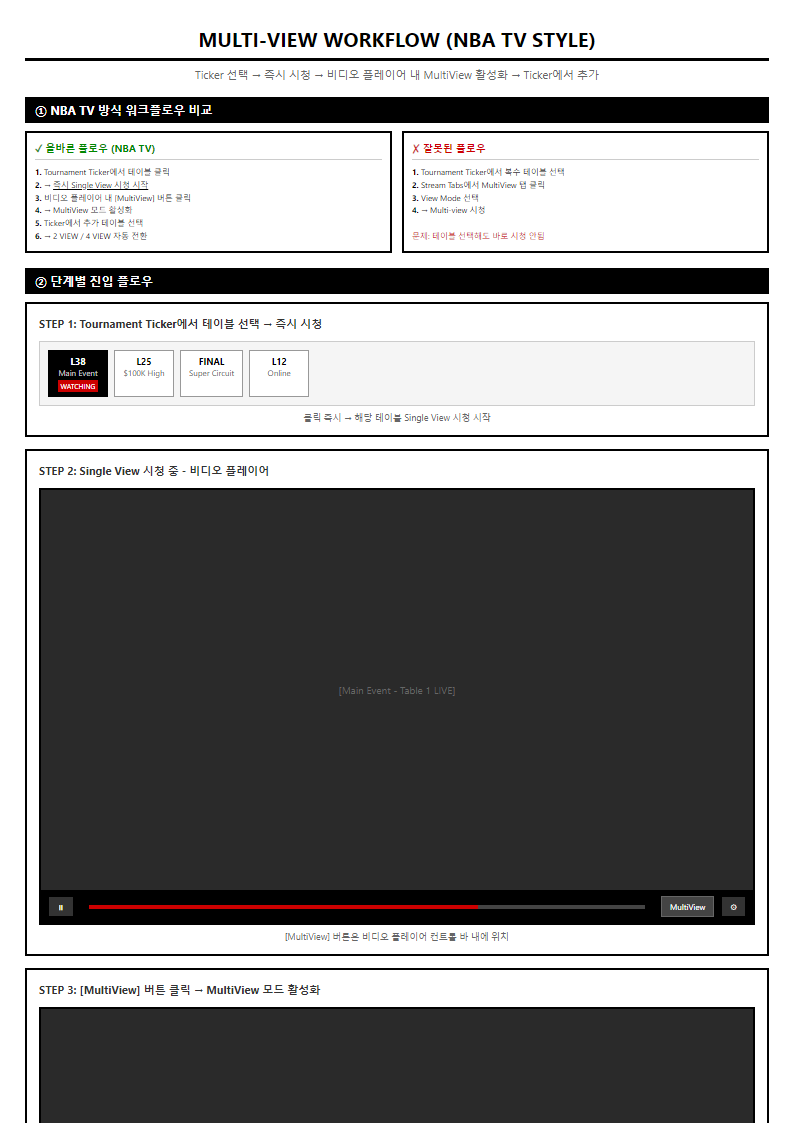
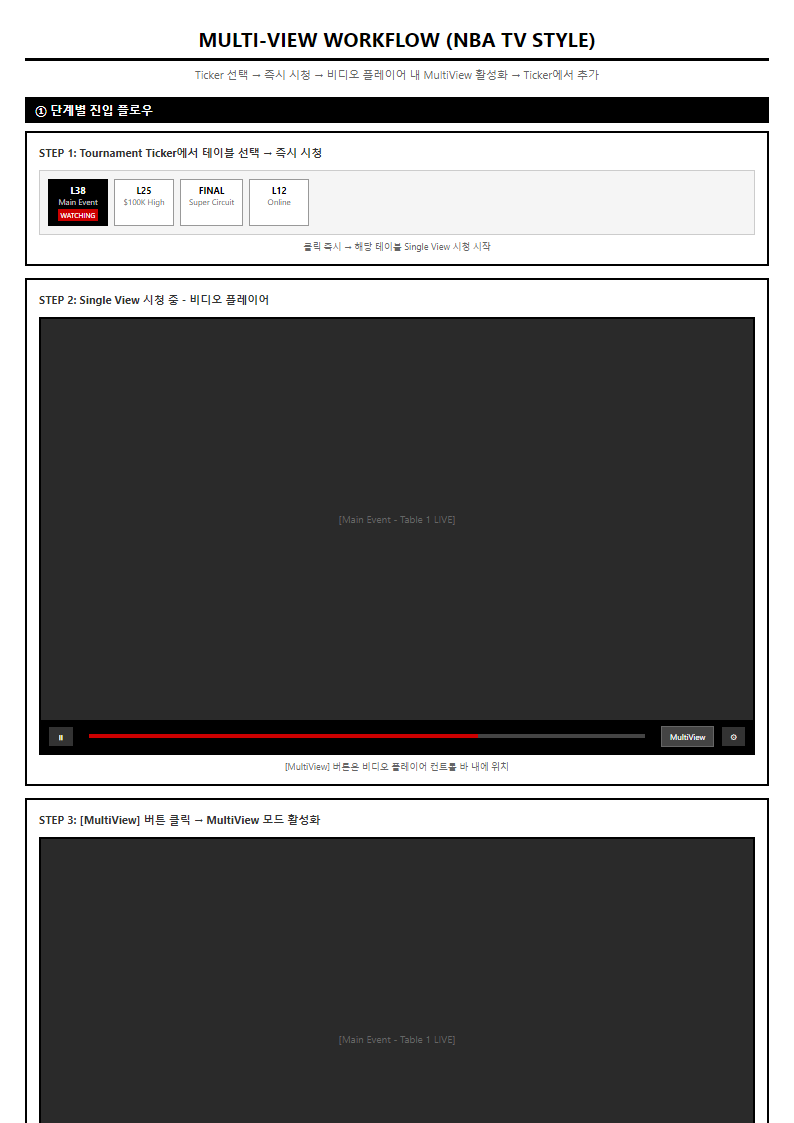
docs(mockup): Multi-view 워크플로우 비교 섹션 삭제
- "올바른 플로우 / 잘못된 플로우" 비교 섹션 제거
- 올바른 NBA TV 방식 워크플로우만 유지
- 섹션 번호 재정렬 (①②③)

diff --git a/docs/mockups/PRD-0002/04-multiview.html b/docs/mockups/PRD-0002/04-multiview.html
@@ -288,34 +288,6 @@
             text-align: center;
         }
 
-        /* Comparison */
-        .comparison {
-            display: flex;
-            gap: 10px;
-        }
-        .comp-box {
-            flex: 1;
-            border: 2px solid #000;
-            padding: 8px;
-        }
-        .comp-title {
-            font-size: 10px;
-            font-weight: bold;
-            margin-bottom: 6px;
-            padding-bottom: 4px;
-            border-bottom: 1px solid #ccc;
-        }
-        .comp-title.wrong {
-            color: #c00;
-        }
-        .comp-title.correct {
-            color: #080;
-        }
-        .comp-flow {
-            font-size: 8px;
-            line-height: 1.6;
-        }
-
         /* Notes */
         .notes {
             padding: 8px;
@@ -350,38 +322,9 @@
         <div class="title">MULTI-VIEW WORKFLOW (NBA TV STYLE)</div>
         <div class="subtitle">Ticker 선택 → 즉시 시청 → 비디오 플레이어 내 MultiView 활성화 → Ticker에서 추가</div>
 
-        <!-- Section 1: Correct vs Wrong Flow -->
+        <!-- Section 1: Step-by-Step Flow -->
         <div class="section">
-            <div class="section-title">① NBA TV 방식 워크플로우 비교</div>
-            <div class="comparison">
-                <div class="comp-box">
-                    <div class="comp-title correct">✓ 올바른 플로우 (NBA TV)</div>
-                    <div class="comp-flow">
-                        <strong>1.</strong> Tournament Ticker에서 테이블 클릭<br/>
-                        <strong>2.</strong> → <u>즉시 Single View 시청 시작</u><br/>
-                        <strong>3.</strong> 비디오 플레이어 내 [MultiView] 버튼 클릭<br/>
-                        <strong>4.</strong> → MultiView 모드 활성화<br/>
-                        <strong>5.</strong> Ticker에서 추가 테이블 선택<br/>
-                        <strong>6.</strong> → 2 VIEW / 4 VIEW 자동 전환
-                    </div>
-                </div>
-                <div class="comp-box">
-                    <div class="comp-title wrong">✗ 잘못된 플로우</div>
-                    <div class="comp-flow">
-                        <strong>1.</strong> Tournament Ticker에서 복수 테이블 선택<br/>
-                        <strong>2.</strong> Stream Tabs에서 MultiView 탭 클릭<br/>
-                        <strong>3.</strong> View Mode 선택<br/>
-                        <strong>4.</strong> → Multi-view 시청<br/>
-                        <br/>
-                        <span style="color: #c00;">문제: 테이블 선택해도 바로 시청 안됨</span>
-                    </div>
-                </div>
-            </div>
-        </div>
-
-        <!-- Section 2: Step-by-Step Flow -->
-        <div class="section">
-            <div class="section-title">② 단계별 진입 플로우</div>
+            <div class="section-title">① 단계별 진입 플로우</div>
 
             <!-- Step 1: Initial Selection -->
             <div class="flow-container">
@@ -506,9 +449,9 @@
             </div>
         </div>
 
-        <!-- Section 3: Spec Table -->
+        <!-- Section 2: Spec Table -->
         <div class="section">
-            <div class="section-title">③ 진입 플로우 명세</div>
+            <div class="section-title">② 진입 플로우 명세</div>
             <table class="spec-table">
                 <tr>
                     <th class="step-num">#</th>
@@ -549,9 +492,9 @@
             </table>
         </div>
 
-        <!-- Section 4: View Modes -->
+        <!-- Section 3: View Modes -->
         <div class="section">
-            <div class="section-title">④ View Mode 레이아웃</div>
+            <div class="section-title">③ View Mode 레이아웃</div>
             <div class="two-col">
                 <div class="col">
                     <div class="multiview-panel">
